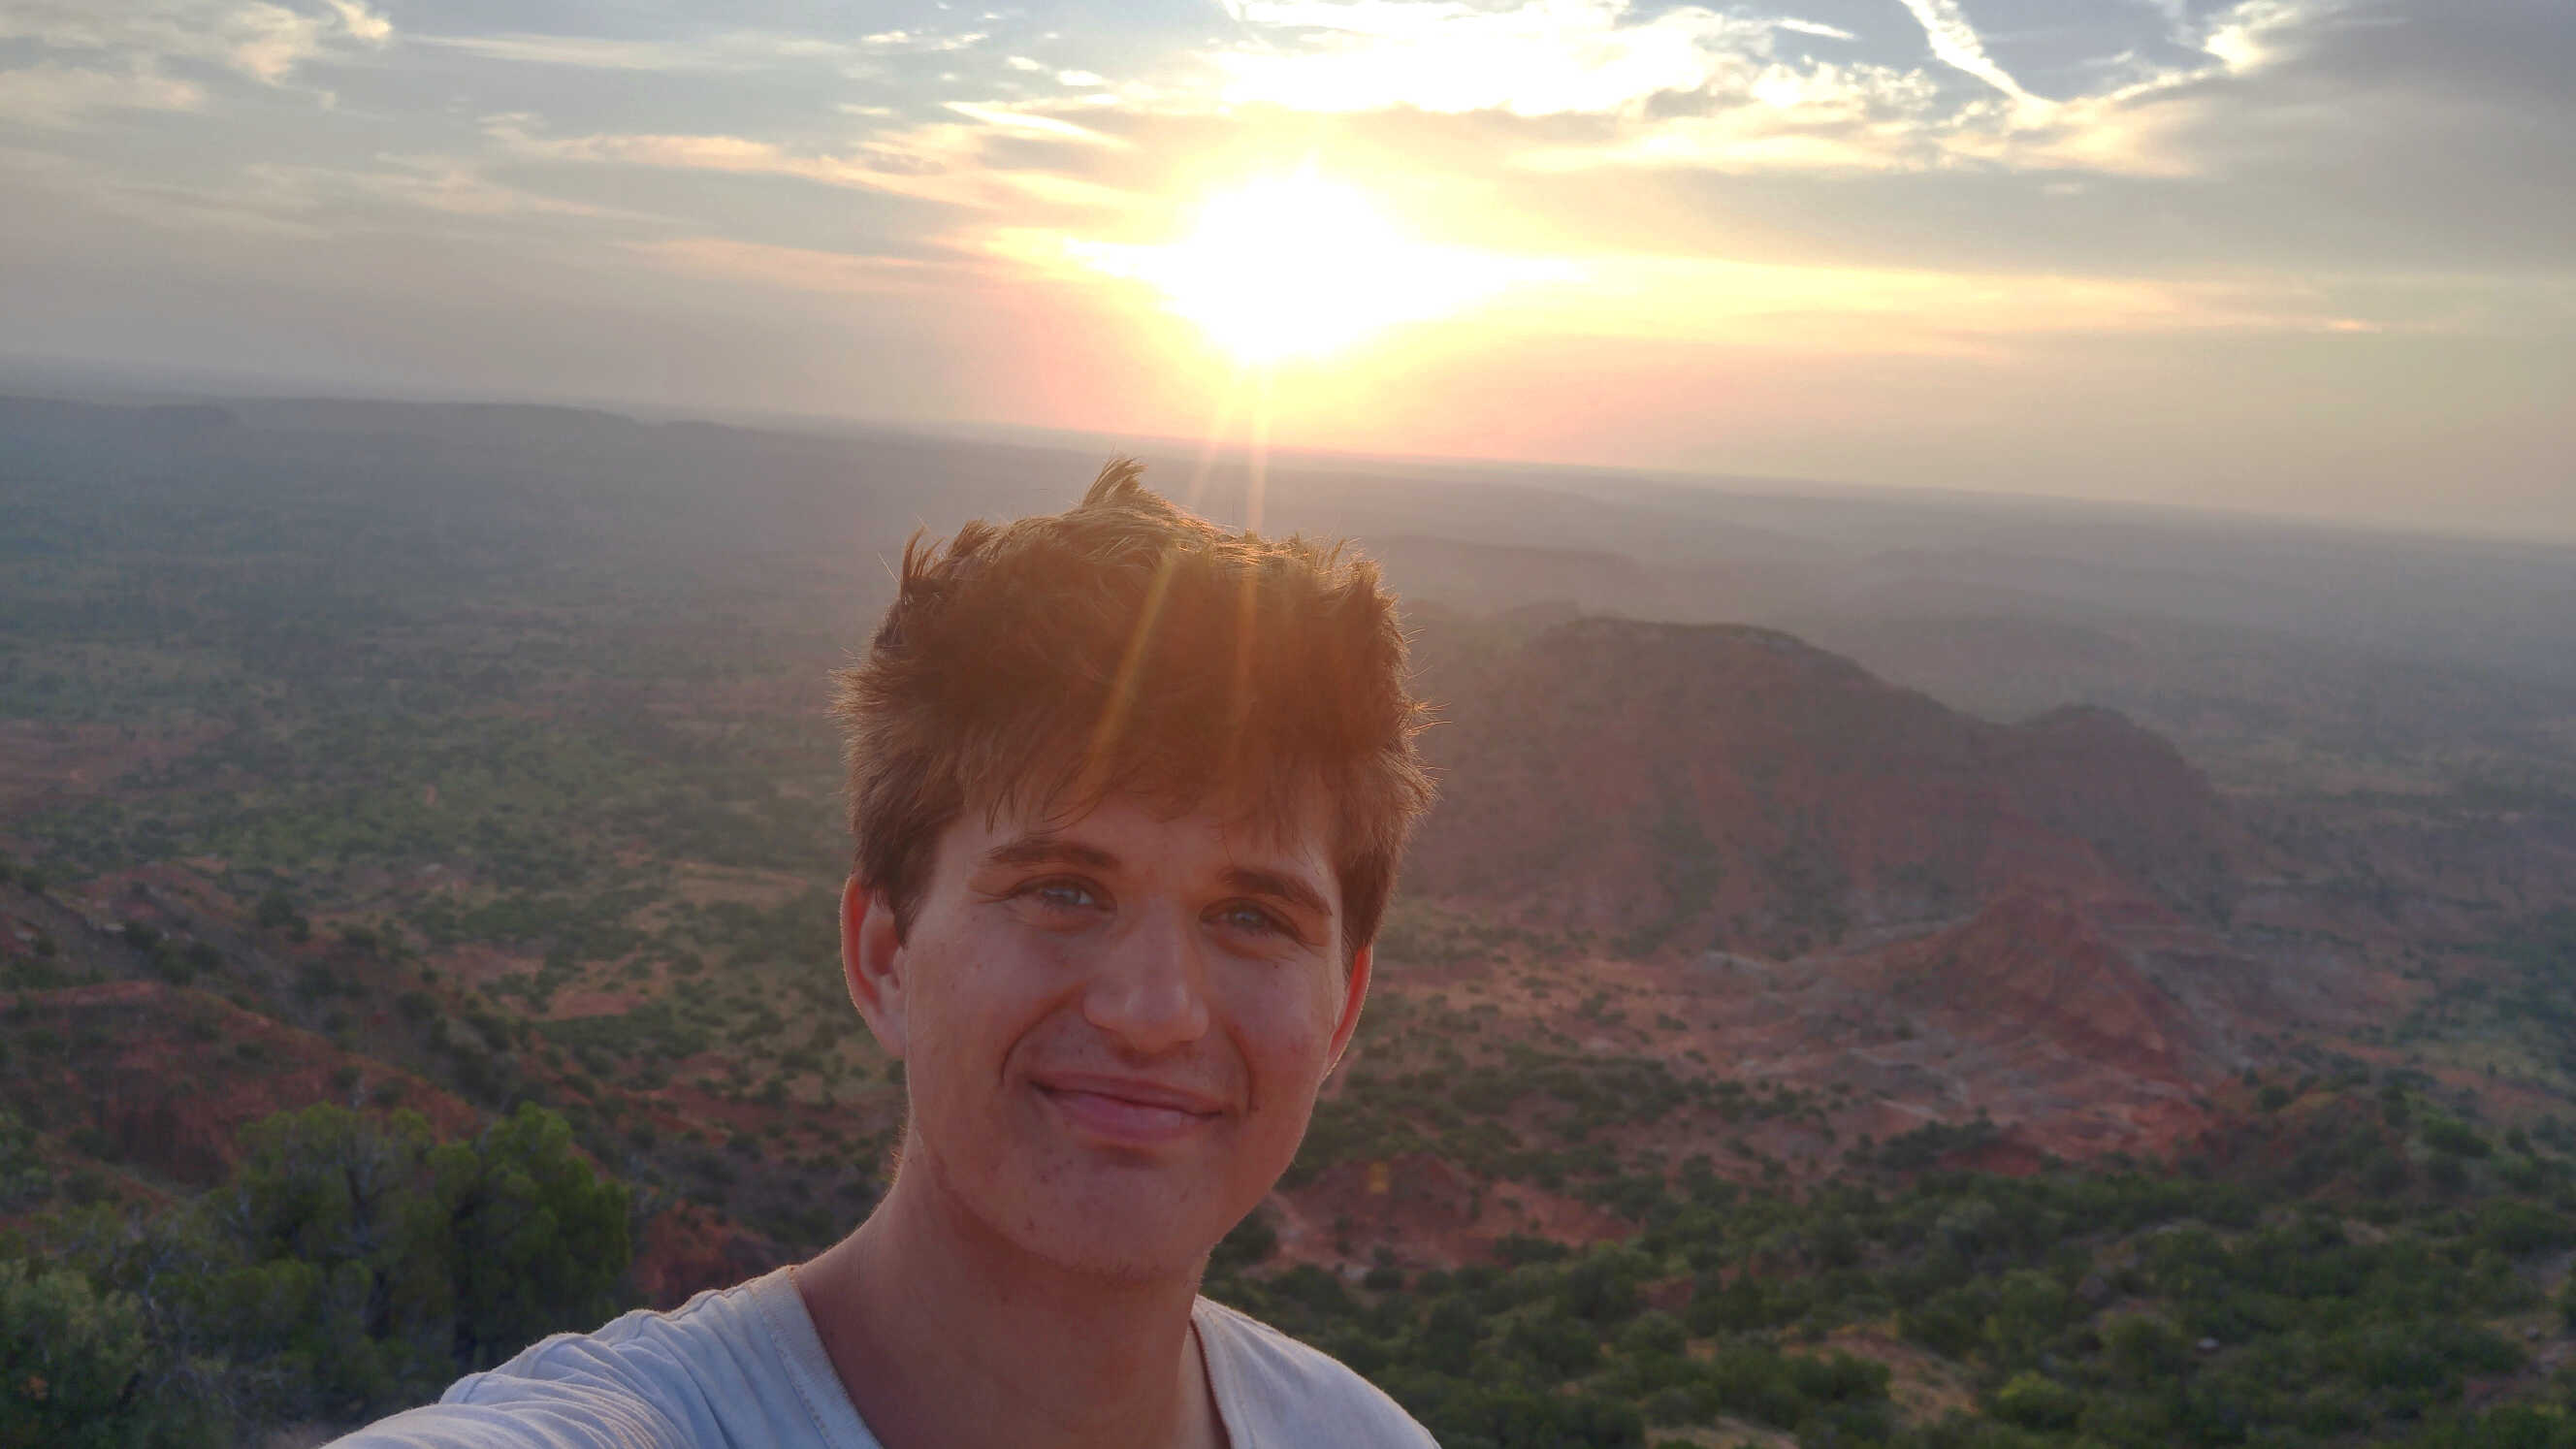
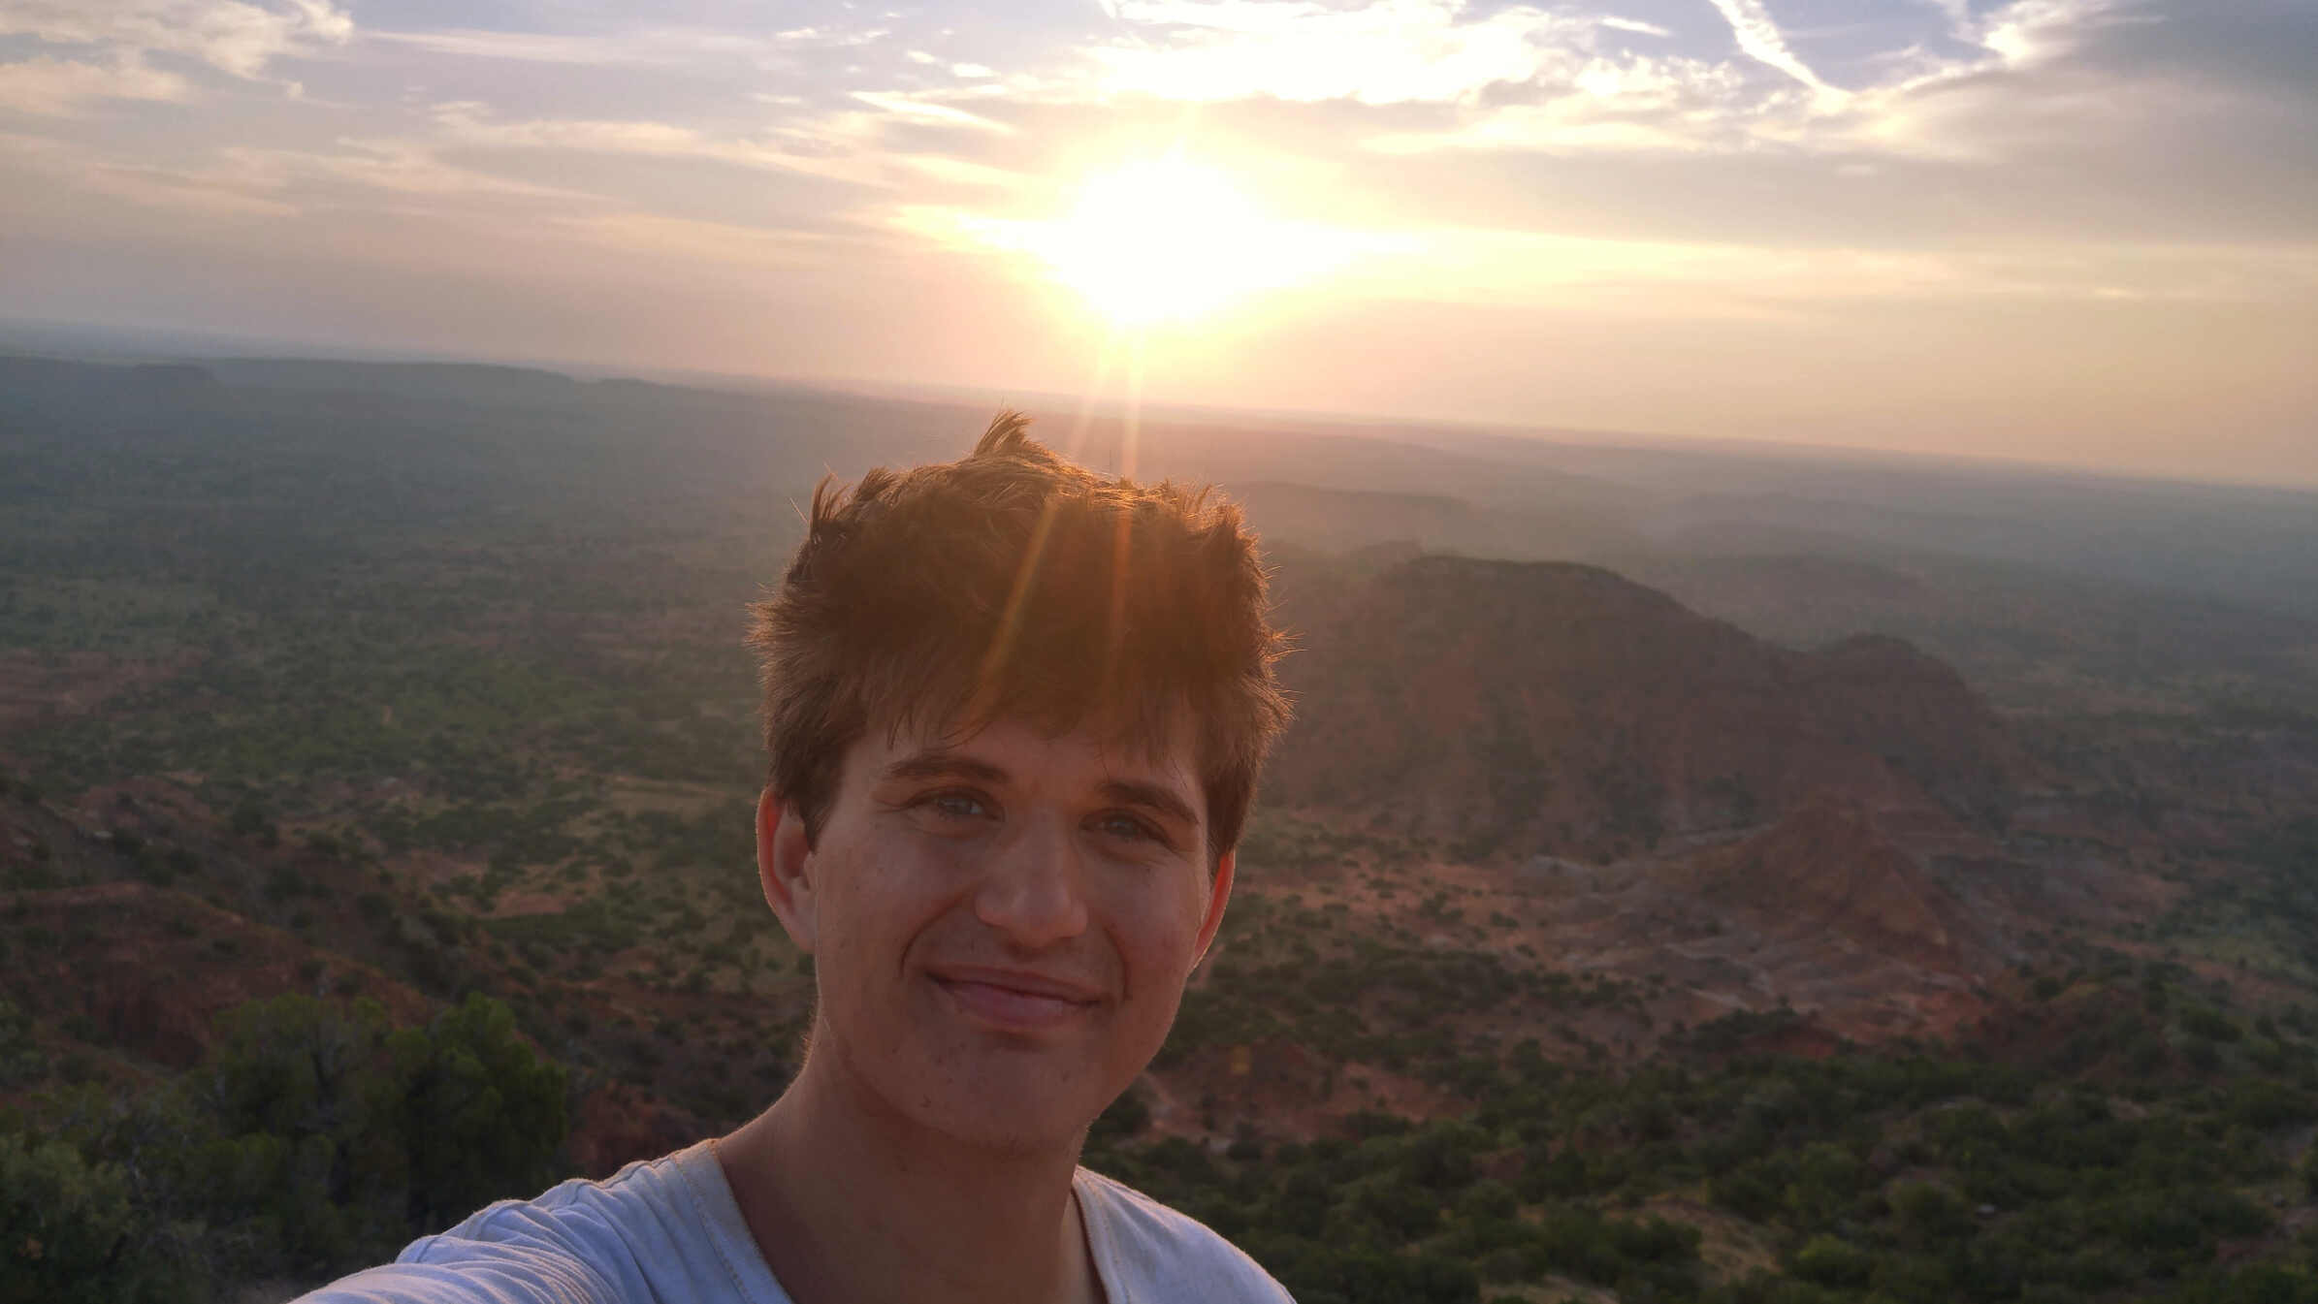
add 2017 dino valley, edited caprock images

diff --git a/hikes/2017_dino_valley.html b/hikes/2017_dino_valley.html
@@ -1,0 +1,45 @@
+
+<!DOCTYPE html>
+
+<html>
+
+<head> 
+	<title> 2017 Dinosaur Valley State Park </title>
+	<link rel="stylesheet" href="../style.css">
+	<link id="img_style" rel="stylesheet" href = "wide_win_img_style.css">
+    <!-- js libraries -->
+	<script src="jquery.min.js"></script>
+    <!-- My js -->
+	<script src="hike_page.js" defer></script>
+</head>
+
+<body id="hiking_page">
+
+	<div class="top">
+	
+		<div class="home-icon logo">
+			<a href="../index.html"> <img src="home_logo_hike.png"/> </a>
+		</div>
+		
+		<div class="logo secondary-icon logo">
+			<a href="hikes.html"> <img src="hiking_logo_back.png"/> </a>
+		</div>
+		
+		<h1 id = "title">2017 Dinosaur Valley State Park</h1>
+		
+		<div id="hike_id" class="hidden">2017_dino_valley</div>
+		
+	</div>
+
+	<div id="slideshow">
+		<img src="2017_dino_valley/20170812_070337_HDR_crop1.jpg" alt="2017 Dinosaur Valley State Park" id="imgClickAndChange" />
+	</div>
+	
+	<div id="nxt_pre_bttns">
+		<button class="previous">&#8249;</button>
+		<button class="next">&#8250;</button>
+	</div>
+	
+</body>
+
+</html>
